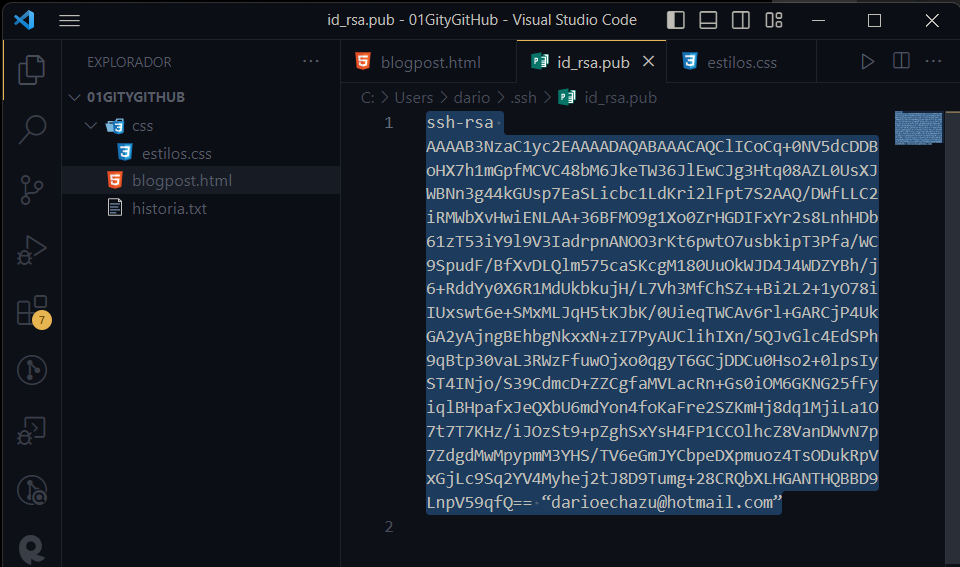
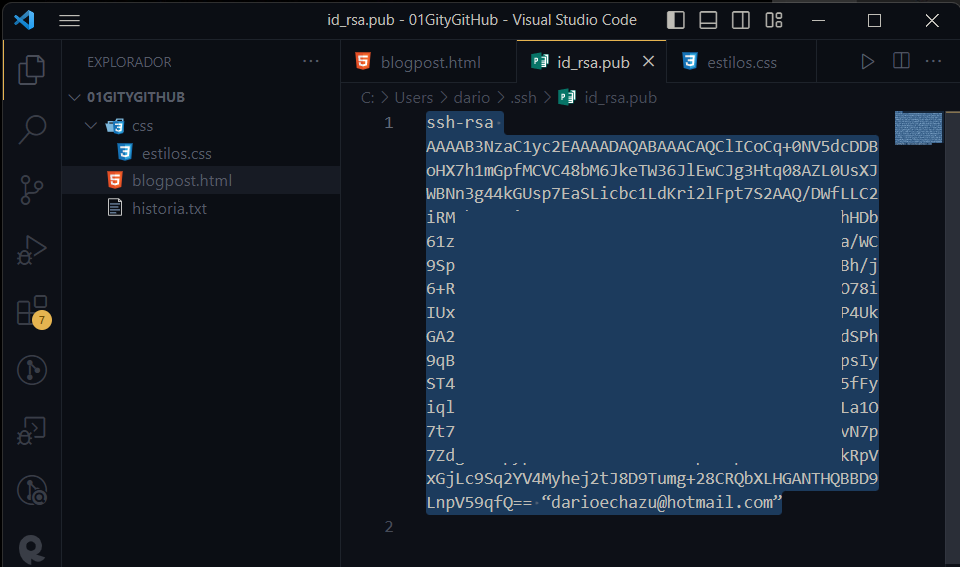
Cuidando las llaves del SSH

Changed region(s): [[0.4688, 0.3598, 0.875, 0.8395]]

diff --git a/19-using-github.md b/19-using-github.md
@@ -1,0 +1,93 @@
+El Git Hub es muy util porque paso a ser la red social de los programadores.
+
+Una vez ingresado en la web de git hub, veamos las alternativas de trabajo para hacer en la nube.
+
+Una vez ingresado, creo un nuevo repositorio presionando el boton NEW
+
+![alt text](<Images/Untitled 64.png>)
+
+De ahi efectuo estos ingresos
+
+![alt text](<Images/Untitled 65.png>)
+
+Creando un archivo de README y por ahora no le sumo ninguna licencia.
+
+Presiono el boton Create Repository
+
+![alt text](<Images/Untitled 66.png>)
+
+presiono en el nombre del archivo en este caso en [README.md](http://README.md) que esta abajo de CanarioEchazu Initial comment y se abre la siguiente ventana.
+
+![alt text](<Images/Untitled 67.png>)
+
+ahora tengo cuatro opciones.
+
+1. Raw
+2. Code
+3. Blame
+4. History
+
+Con **Raw**, me abre una ventana nueva, visualizando texto plano del commit que se ha creado.
+
+En **Code**, tengo la posibilidad de editar al presionar el boton del lapiz
+
+![alt text](<Images/Untitled 68.png>)
+
+Y con **Blame** puedo observar quien fue el responsable de este commit.
+
+![alt text](<Images/Untitled 69.png>)
+
+y con **History**, es como cuando ejecuto un git log, que me muestra toda la vida de los commit que tuvo ese archivo.
+
+![alt text](<Images/Untitled 70.png>)
+
+## Como traer lo realizado en la PC al repositorio
+
+Tengo las llaves creadas tanto publica como privada. Entonces vamos a trabajar con **SSH**.
+Estas llaves están ubicadas en el home de mi PC y no del repositorio
+
+### **Importante**:
+
+Cada Usuario, cada computadora, cada lugar de trabajo, tiene **UNA LLAVE UNICA** !!!
+
+Entonces si tienes tres laptops, tiene que tener 3 llaves conectadas a tu repositorio. Sino nunca podria trabajar en ese lugar.
+
+Mis llaves estan aqui:
+C:\Users\dario\.ssh
+
+Y la que tengo que abrir, es solamente la publica
+id_rsa (tiene una P).
+
+![alt text](<Images/Untitled 71.png>)
+
+Y abrimos con Visual Studio Code.
+
+![alt text](<Images/Untitled 72.png>)
+
+En Visual Estudio Code, seleccionamos todo el archivo y lo copiamos.
+
+![alt text](<Images/Untitled 73.png>)
+
+De ahi vamos a nuestro perfil del Git Hub, y selecciono la opcion settings
+
+![alt text](<Images/Untitled 74.png>)
+
+de ahi busco en mi columna de la izquierda la opcion que dice **SSH and GPG kyes** y pego mi llave
+
+![alt text](<Images/Untitled 75.png>)
+
+Ahi presiono la tecla **New SSH key**
+
+![alt text](<Images/Untitled 76.png>)
+
+y creo la nueva llave, colocando arriba la descripcion y abajo el codigo de la llave.
+
+![alt text](<Images/Untitled 77.png>)
+
+y al presionar **Add SSH key** me creo la llave dándome la siguiente ventana.
+
+![alt text](<Images/Untitled 78.png>)
+
+Y acabo de crear mi llave publica para trabajar.
+
+Ya tenemos viculados nuestro repositorios con SSH.
